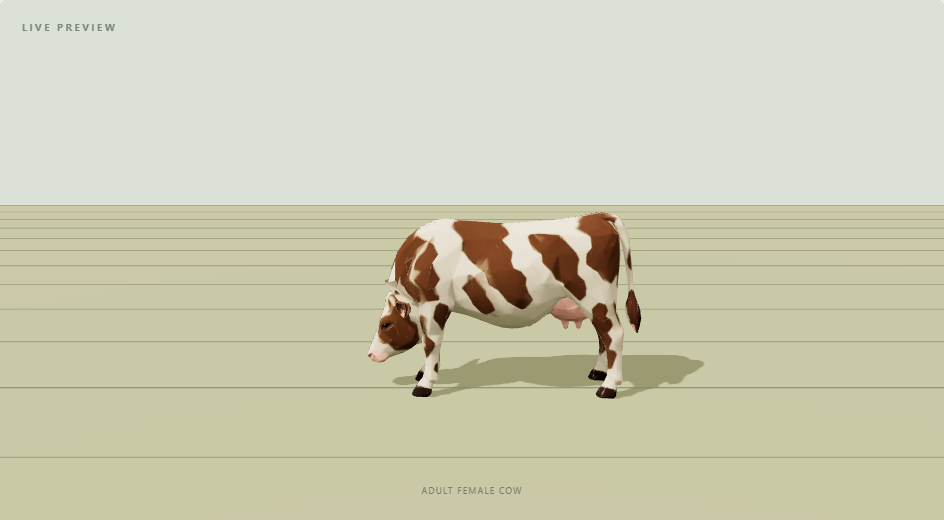
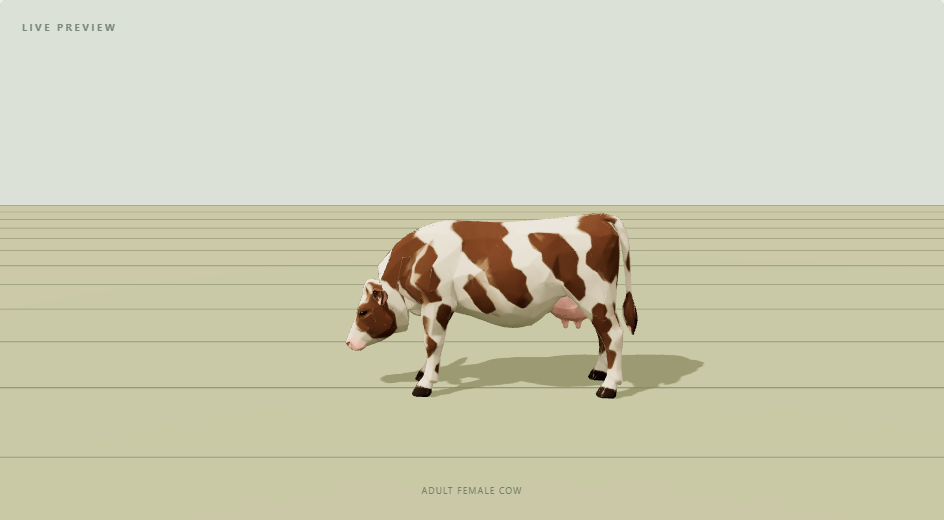
Distribute grazing bend into a forward sloping neck curve

diff --git a/scripts/author-cow-animations.py b/scripts/author-cow-animations.py
@@ -115,14 +115,18 @@ def author(source, output):
                     target.location.z += 0.085*math.sin(math.pi*u)**1.2
         elif clip == "Graze":
             down = smooth(t/2.4)*(1-smooth((t-9.6)/2.4))
-            rotate("Bone_000", (1,0,0), 0.065*down)
+            rotate("Bone_000", (1,0,0), 0.025*down)
+            rotate("Bone_030", (1,0,0), 0.05*down)
+            rotate("Bone_028", (1,0,0), 0.08*down)
             # Z is Blender's vertical axis: gentle body, shoulder and head yaw.
             rotate("Bone_000", (0,0,1), math.radians(1.0)*down*wave(t,6))
             rotate("Bone_028", (0,0,1), math.radians(1.25)*down*wave(t,4))
-            rotate("Bone_036", (1,0,0), 1.48*down)
+            rotate("Bone_036", (1,0,0), 0.82*down)
+            rotate("Bone_035", (1,0,0), 0.09*down)
             rotate("Bone_036", (0,0,1), math.radians(1.5)*down*wave(t,6,0.6))
-            rotate("Bone_034", (1,0,0), 0.14*down)
-            rotate("Bone_032", (1,0,0), -0.04*down+0.015*down*wave(t,2))
+            rotate("Bone_034", (1,0,0), 0.16*down)
+            rotate("Bone_033", (1,0,0), 0.14*down)
+            rotate("Bone_032", (1,0,0), 0.11*down+0.015*down*wave(t,2))
             desired_pitch = neutral_head_pitch*(1-down) + math.radians(75)*down
             # Counter-rotate the skull as the neck lowers. Correct in evaluated
             # armature space so the tilt stays 15 degrees off vertical through the sway.
@@ -226,7 +230,7 @@ def author(source, output):
         "withersHeightM":TARGET_WITHERS_HEIGHT,"sourceWithersHeightM":source_withers,
         "physicalScale":physical_scale,"height":source_height*physical_scale,
         "variant":"adult-female","boneCount":len(arm.data.bones),
-        "grazing":{"headTiltDegrees":75,"headTiltReference":"horizontal ground","verticalDeviationDegrees":15,"yawDegrees":{"body":1,"shoulders":1.25,"neck":1.5,"head":3}},
+        "grazing":{"headTiltDegrees":75,"headTiltReference":"horizontal ground","verticalDeviationDegrees":15,"neckPose":"distributed forward-and-down curve","yawDegrees":{"body":1,"shoulders":1.25,"neck":1.5,"head":3}},
         "referenceMethod":"Authored keys with cattle gait literature; not video motion capture",
         "proposedVideo":"https://youtu.be/sObyVL3oU6g",
         "references":[

diff --git a/docs/CATTLE-ANIMATIONS-V01.md b/docs/CATTLE-ANIMATIONS-V01.md
@@ -30,9 +30,12 @@ Walk is in place at approximately 0.37 m/s after physical scaling, with HL → F
 follows that pace. World playback must match movement speed to playback rate
 and model scale. Cattle gameplay rules and balances are unchanged.
 
-Graze keeps a raised feeding pose: the muzzle-to-poll head axis stays near
+Graze distributes the bend across the shoulder and five neck joints. The
+neck extends forward and down rather than folding vertically at its base;
+the neck-root-to-head chord is approximately 48–49 degrees downward and the
+muzzle is about 0.45 m ahead of the fore-hoof plane. The muzzle-to-poll head axis stays near
 75 degrees downward from horizontal (15 degrees away from vertical
-downward) during 2.4–9.6 s. The muzzle stays approximately 0.16 m above
+downward) during 2.4–9.6 s. The muzzle stays approximately 0.23 m above
 the ground. Gentle Blender
 Z-axis turns originate in the body (1 degree), shoulders (1.25 degrees), neck
 (1.5 degrees) and head (3 degrees). Head turns use the world vertical axis
@@ -47,7 +50,7 @@ Original, unchanged:
 Outputs in its `Animations/` directory:
 
 - `cow-female-adult-animations.blend`: editable Blender 5.2.2 file, four Actions.
-- `cow-female-adult-animated.glb`: full texture export, about 6.59 MB.
+- `cow-female-adult-animated.glb`: full texture export, about 6.61 MB.
 - `cow-female-adult-runtime.glb`: optimized browser version, about 0.91 MB.
 - `authoring.json` and `runtime-manifest.json`: source identity and measurements.
 
@@ -93,7 +96,9 @@ had matching opening/closing keys. The preview reports a 1.65 m reference
 human. Grazing head tilt was sampled across the feeding interval and the
 revised loop was visually checked in the browser from side, front and RTS
 views, including lowering and raising. The corrected reference angle is
-15 degrees off downward vertical, not 15 degrees off horizontal. The original .glb retained its SHA-256; browser inspection had no page errors.
+15 degrees off downward vertical, not 15 degrees off horizontal. The neck
+curve was reviewed alongside the user-supplied grazing-cow reference image;
+these are authored poses, not motion capture from that image. The original .glb retained its SHA-256; browser inspection had no page errors.
 `authoring.json` reports IK target residuals, not a guarantee of zero visible
 hoof sliding on every future terrain.
 
